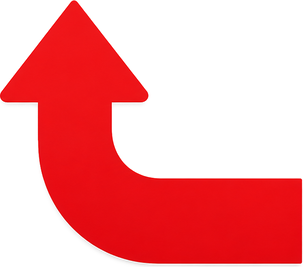
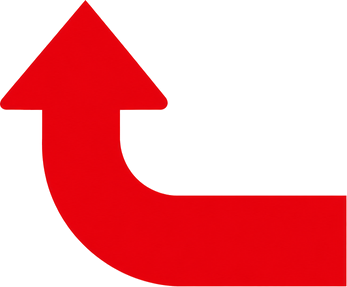
Cut the new arrow into pieces and give the top and bottom arrows the same layout
The new arrow image is cut into five pieces (arrow, two text lines, the red rule and
the ÉSIKA logo), and both the top and the bottom arrow sections use them. Both
arrow sections are 370 px tall, and their pieces sit at the same offsets inside each.

diff --git a/tools/layout_editor/corner_sign.js b/tools/layout_editor/corner_sign.js
@@ -1,7 +1,7 @@
-// The Calle 12 corner sign, cut into one band per section by tools/cut_corner_sign_bands.py.
+// The Calle 12 corner sign, cut into bands and pieces by tools/cut_corner_sign_parts.py.
 export const corner_sign_key = 'esquina_calle_12';
 
-const band_folder = '../../images/signs/partes/esquina_calle_12_nueva';
+const sign_folder = '../../images/signs/partes/esquina_calle_12_nueva';
 const sign_height = 4480;
 const bands = [
   ['01_cabecera', 0],
@@ -11,17 +11,45 @@ const bands = [
   ['05_davivienda', 3529],
 ];
 const band_titles = ['1. cabecera', '2. nequi', '3. bancolombia', '4. servicios', '5. davivienda'];
+// Pieces as [section index, folder, name, x, y], in pixels of the sign, back to front.
+const pieces = [
+  [0, 'logos', 'flecha', 371, 23],
+  [0, 'textos', 'texto_a_la_vuelta', 909, 51],
+  [0, 'textos', 'texto_tagline', 103, 434],
+  [1, 'textos', 'texto_recarga', 240, 634],
+  [1, 'logos', 'logo_nequi', 171, 846],
+  [1, 'textos', 'texto_hazlo_facil', 343, 1309],
+  [1, 'fotos', 'celular_nequi', 1200, 806],
+  [2, 'fotos', 'tarjeta_bancolombia', 699, 1533],
+  [2, 'logos', 'logo_bancolombia', 263, 1823],
+  [2, 'textos', 'texto_corresponsal', 423, 2034],
+  [3, 'textos', 'texto_pago_servicios', 274, 2303],
+  [3, 'textos', 'texto_servicios_lista', 474, 2583],
+  [3, 'fotos', 'facturas', 160, 2680],
+  [3, 'logos', 'iconos_servicios', 286, 3349],
+  [4, 'logos', 'logo_davivienda', 371, 3594],
+  [4, 'logos', 'logo_daviplata', 303, 3949],
+  [4, 'fotos', 'celular_davivienda', 1331, 3566],
+  [4, 'textos', 'texto_envia', 331, 4326],
+];
 
 export const sign_size = { width: 1920, height: sign_height };
 export const original_image = '../../images/signs/propuestas/esquina_calle_12_nueva_0x6_1x4.webp';
 
-export const parts_catalog = bands.map(([name, y], index) => ({
-  name, source: `${band_folder}/${name}.webp`, x: 0, y, is_background: true, section: band_titles[index],
+const band_parts = bands.map(([name, y], index) => ({
+  name, source: `${sign_folder}/fondos/${name}.webp`, x: 0, y, is_background: true, section: band_titles[index],
 }));
+const piece_parts = pieces.map(([index, folder, name, x, y]) => ({
+  name, source: `${sign_folder}/${folder}/${name}.webp`, x, y, is_background: false, section: band_titles[index],
+}));
+export const parts_catalog = [...band_parts, ...piece_parts];
 
 // The header keeps its proportions, the other bands stretch to their slot like the column sign's bands.
 export const sections = bands.map(([name], index) => ({
-  title: band_titles[index], background: name, stretch_background: index > 0, pieces: [name],
+  title: band_titles[index],
+  background: name,
+  stretch_background: index > 0,
+  pieces: [name, ...pieces.filter(([section]) => section === index).map(([, , piece]) => piece)],
 }));
 
 export const original_section_heights = bands.map(([, top], index) => (bands[index + 1]?.[1] ?? sign_height) - top);

diff --git a/tools/layout_editor/parts_catalog.js b/tools/layout_editor/parts_catalog.js
@@ -19,7 +19,7 @@ const bands = [
   ['03_bancolombia', 1610, bancolombia_folder],
   ['04_servicios', 2419, bancolombia_folder],
   ['05_davivienda', 3587, daviplata_folder],
-  ['06_flecha_inferior', 4080, bancolombia_folder],
+  ['06_flecha_inferior', 4110, bancolombia_folder],
 ];
 const pieces = [
   ['logos', 'destellos_izquierda', 145, 875],
@@ -40,11 +40,11 @@ const davivienda_pieces = [
 ];
 // The arrow art, cut by tools/cut_esika_arrow_parts.py. The same pieces appear in the top and the bottom arrow.
 const arrow_pieces = [
-  ['flecha', 83, 33],
-  ['a_la_vuelta', 459, 49],
-  ['linea_roja', 459, 114],
-  ['en_la_tienda', 459, 134],
-  ['logo_esika', 459, 209],
+  ['flecha', 40, 18],
+  ['a_la_vuelta', 427, 44],
+  ['linea_roja', 427, 117],
+  ['en_la_tienda', 427, 138],
+  ['logo_esika', 427, 213],
 ];
 const top_arrow_names = arrow_pieces.map(([file]) => `sup_${file}`);
 const bottom_arrow_names = arrow_pieces.map(([file]) => `inf_${file}`);

diff --git a/tools/cut_corner_sign_parts.py b/tools/cut_corner_sign_parts.py
@@ -1,0 +1,134 @@
+"""Cuts the Calle 12 corner proposal into the pieces of each section, so every piece moves on its own.
+
+The proposal is scaled to the 0.60 m board, 1920 px wide. Photos are cut out along their edges with GrabCut,
+logos and texts are keyed against the band color, and every band is rebuilt without them.
+"""
+from pathlib import Path
+
+import numpy as np
+import cv2
+from PIL import Image
+
+from cut_sign_parts import SignPartCutter
+
+PROJECT_ROOT = Path(__file__).resolve().parent.parent
+SOURCE = "images/signs/propuestas/esquina_calle_12_nueva_0x6_1x4.webp"
+OUTPUT = "images/signs/partes/esquina_calle_12_nueva"
+BOARD_WIDTH = 1920
+# Rows of the proposal where each band starts and ends.
+BAND_ROWS = [("01_cabecera", 0, 204), ("02_nequi", 204, 532), ("03_bancolombia", 532, 791), ("04_servicios", 791, 1235), ("05_davivienda", 1235, 1568)]
+# Outside these columns the bands keep their rounded corners.
+REBUILT_LEFT, REBUILT_RIGHT = 120, 1800
+# A pixel this far from its row's clean color is an element; the rest of the band keeps its gradient.
+ELEMENT_DISTANCE = 60
+INPAINT_RADIUS = 5
+SAMPLE_COLUMNS = slice(130, 170)
+
+# The card is the complete one from the column sign, fitted without distortion inside the card's place in this
+# proposal (left, top, right, bottom in board pixels), above the Bancolombia logo.
+CARD_ART = "images/signs/partes/bancolombia_nueva_1x4_6/fotos/tarjeta_bancolombia.webp"
+CARD_BOX = (606, 1545, 1194, 1830)
+
+# Pieces as (band, folder, name, left, top, right, bottom, how it is cut), in pixels of the proposal before scaling.
+PIECES = [
+    ("01_cabecera", "textos", "texto_a_la_vuelta", 318, 18, 532, 136, "key"),
+    ("01_cabecera", "textos", "texto_tagline", 36, 152, 640, 190, "key"),
+    ("01_cabecera", "logos", "flecha", 130, 8, 302, 142, "key"),
+    ("02_nequi", "textos", "texto_recarga", 84, 222, 590, 278, "key"),
+    ("02_nequi", "logos", "logo_nequi", 60, 296, 424, 412, "key"),
+    ("02_nequi", "textos", "texto_hazlo_facil", 120, 458, 405, 506, "key"),
+    ("02_nequi", "fotos", "celular_nequi", 420, 282, 640, 534, "grabcut"),
+    ("03_bancolombia", "logos", "logo_bancolombia", 92, 638, 548, 713, "key_sin_amarillo"),
+    ("03_bancolombia", "textos", "texto_corresponsal", 148, 712, 524, 780, "key"),
+    ("04_servicios", "textos", "texto_pago_servicios", 96, 806, 578, 904, "key"),
+    ("04_servicios", "textos", "texto_servicios_lista", 166, 904, 508, 938, "key"),
+    ("04_servicios", "fotos", "facturas", 56, 938, 632, 1170, "grabcut"),
+    ("04_servicios", "logos", "iconos_servicios", 100, 1172, 570, 1228, "key"),
+    ("05_davivienda", "logos", "logo_davivienda", 130, 1258, 420, 1370, "key"),
+    ("05_davivienda", "logos", "logo_daviplata", 106, 1382, 444, 1496, "opaque"),
+    ("05_davivienda", "fotos", "celular_davivienda", 466, 1248, 628, 1484, "grabcut"),
+    ("05_davivienda", "textos", "texto_envia", 116, 1514, 540, 1548, "key"),
+]
+
+
+class CornerPartCutter(SignPartCutter):
+    @staticmethod
+    def _alpha(crop: np.ndarray, box: tuple, method: str, backgrounds: np.ndarray) -> np.ndarray:
+        if method != "key_sin_amarillo":
+            return SignPartCutter._alpha(crop, box, method, backgrounds)
+        # The yellow card sits just above this logo; yellow never belongs to the logo, so it is dropped.
+        alpha = SignPartCutter._alpha(crop, box, "key", backgrounds)
+        yellow = (crop[..., 0] > 200) & (crop[..., 1] > 150) & (crop[..., 2] < 120)
+        return np.where(yellow, 0, alpha).astype(np.uint8)
+
+    def __init__(self, project_root: Path):
+        self.project_root = project_root
+        self.output = project_root / OUTPUT
+        art = Image.open(project_root / SOURCE).convert("RGB")
+        self.scale = BOARD_WIDTH / art.width
+        self.source = np.asarray(art.resize((BOARD_WIDTH, round(art.height * self.scale)), Image.LANCZOS))
+
+    def cut_all(self) -> None:
+        backgrounds = self._rebuild_backgrounds()
+        for band, folder, name, left, top, right, bottom, method in PIECES:
+            box = self._board_box(left, top, right, bottom)
+            crop = self.source[box[1]:box[3], box[0]:box[2]]
+            self._save(folder, name, crop, self._alpha(crop, box, method, backgrounds))
+        self._save_bands(backgrounds)
+        self._save_card()
+
+    def piece_positions(self) -> list[tuple[str, str, int, int]]:
+        return [(name, folder, *self._board_box(left, top, right, bottom)[:2]) for _, folder, name, left, top, right, bottom, _ in PIECES]
+
+    def _rebuild_backgrounds(self) -> np.ndarray:
+        backgrounds = self.source.copy()
+        columns = np.arange(self.source.shape[1])
+        outside_inside = (columns < REBUILT_LEFT) | (columns >= REBUILT_RIGHT)
+        for _, start, end in BAND_ROWS:
+            top, bottom = self._board_rows(start), self._board_rows(end)
+            band = self.source[top:bottom]
+            clean = np.median(band[:, SAMPLE_COLUMNS], axis=1)
+            distance = np.abs(band.astype(int) - clean[:, None, :].astype(int)).sum(axis=2)
+            # The white outside the rounded corners is the sign's shape, not an element.
+            corner_white = outside_inside[None, :] & (band.min(axis=2) > 235)
+            element = (distance > ELEMENT_DISTANCE) & ~corner_white
+            mask = element.astype(np.uint8) * 255
+            backgrounds[top:bottom] = cv2.inpaint(np.ascontiguousarray(band), mask, INPAINT_RADIUS, cv2.INPAINT_TELEA)
+        return backgrounds
+
+    def _save_bands(self, backgrounds: np.ndarray) -> None:
+        (self.output / "fondos").mkdir(parents=True, exist_ok=True)
+        for name, start, end in BAND_ROWS:
+            band = backgrounds[self._board_rows(start):self._board_rows(end)]
+            Image.fromarray(band).save(self.output / "fondos" / f"{name}.webp", lossless=True)
+
+    def card_position(self) -> tuple[int, int]:
+        return self._card_placement()[2:]
+
+    def _card_placement(self) -> tuple:
+        art = Image.open(self.project_root / CARD_ART).convert("RGBA")
+        left, top, right, bottom = art.getchannel("A").getbbox()
+        box_left, box_top, box_right, box_bottom = CARD_BOX
+        scale = min((box_right - box_left) / (right - left), (box_bottom - box_top) / (bottom - top))
+        x = box_left + ((box_right - box_left) - (right - left) * scale) / 2 - left * scale
+        y = box_top + ((box_bottom - box_top) - (bottom - top) * scale) / 2 - top * scale
+        return art, scale, round(x), round(y)
+
+    def _save_card(self) -> None:
+        art, scale, _, _ = self._card_placement()
+        card = art.resize((round(art.width * scale), round(art.height * scale)), Image.LANCZOS)
+        card.save(self.output / "fotos" / "tarjeta_bancolombia.webp", lossless=True)
+
+    def _board_box(self, left: int, top: int, right: int, bottom: int) -> tuple[int, int, int, int]:
+        return tuple(self._board_rows(value) for value in (left, top, right, bottom))
+
+    def _board_rows(self, row: int) -> int:
+        return round(row * self.scale)
+
+
+if __name__ == "__main__":
+    cutter = CornerPartCutter(PROJECT_ROOT)
+    cutter.cut_all()
+    for name, folder, x, y in cutter.piece_positions():
+        print(name, folder, x, y)
+    print("tarjeta_bancolombia", "fotos", *cutter.card_position())

diff --git a/tools/cut_esika_arrow_parts.py b/tools/cut_esika_arrow_parts.py
@@ -9,22 +9,25 @@ import numpy as np
 from PIL import Image
 
 PROJECT_ROOT = Path(__file__).resolve().parent.parent
-SOURCE = "images/signs/propuestas/flecha_esika_vuelta.webp"
+SOURCE = "images/signs/propuestas/flecha_esika_vuelta_nueva.webp"
 OUTPUT = "images/signs/partes/flecha_esika_vuelta"
 BANDS = "images/signs/partes/bancolombia_nueva_1x4_6/fondos"
 SIGN_WIDTH = 960
 # Boxes in pixels of the source arrow: name, left, top, right, bottom.
 PIECES = {
-    "flecha": (177, 69, 819, 635),
-    "a_la_vuelta": (972, 103, 1907, 210),
-    "linea_roja": (972, 241, 1907, 248),
-    "en_la_tienda": (972, 283, 1907, 390),
-    "logo_esika": (972, 442, 1907, 675),
+    "flecha": (84, 37, 812, 640),
+    "a_la_vuelta": (897, 92, 1938, 214),
+    "linea_roja": (897, 246, 1938, 257),
+    "en_la_tienda": (897, 290, 1938, 409),
+    "logo_esika": (897, 447, 1938, 696),
 }
 # Bands the arrow sits in, as (file name, height in pixels), at sign width.
-BLANK_BANDS = {"01_flecha_superior.webp": 370, "06_flecha_inferior.webp": 299}
+BLANK_BANDS = {"01_flecha_superior.webp": 370, "06_flecha_inferior.webp": 370}
 # How strongly a pixel away from white turns opaque; light shadows stay faint.
-INK_STRENGTH = 3
+# The logo is a solid red box whose white letters must stay opaque, so it is not keyed out of the white.
+OPAQUE_PIECES = {"logo_esika"}
+INK_FLOOR = 12
+INK_STRENGTH = 4
 
 
 class ArrowPartCutter:
@@ -45,7 +48,9 @@ class ArrowPartCutter:
         size = (round(crop.width * self.scale), round(crop.height * self.scale))
         pixels = np.asarray(crop.resize(size, Image.LANCZOS)).astype(int)
         distance = np.abs(pixels - 255).sum(axis=2)
-        alpha = np.clip(distance * INK_STRENGTH, 0, 255).astype(np.uint8)
+        alpha = np.clip((distance - INK_FLOOR) * INK_STRENGTH, 0, 255).astype(np.uint8)
+        if path.stem in OPAQUE_PIECES:
+            alpha = np.full(alpha.shape, 255, np.uint8)
         piece = np.dstack([pixels.astype(np.uint8), alpha])
         Image.fromarray(piece, "RGBA").save(path, lossless=True)
 
